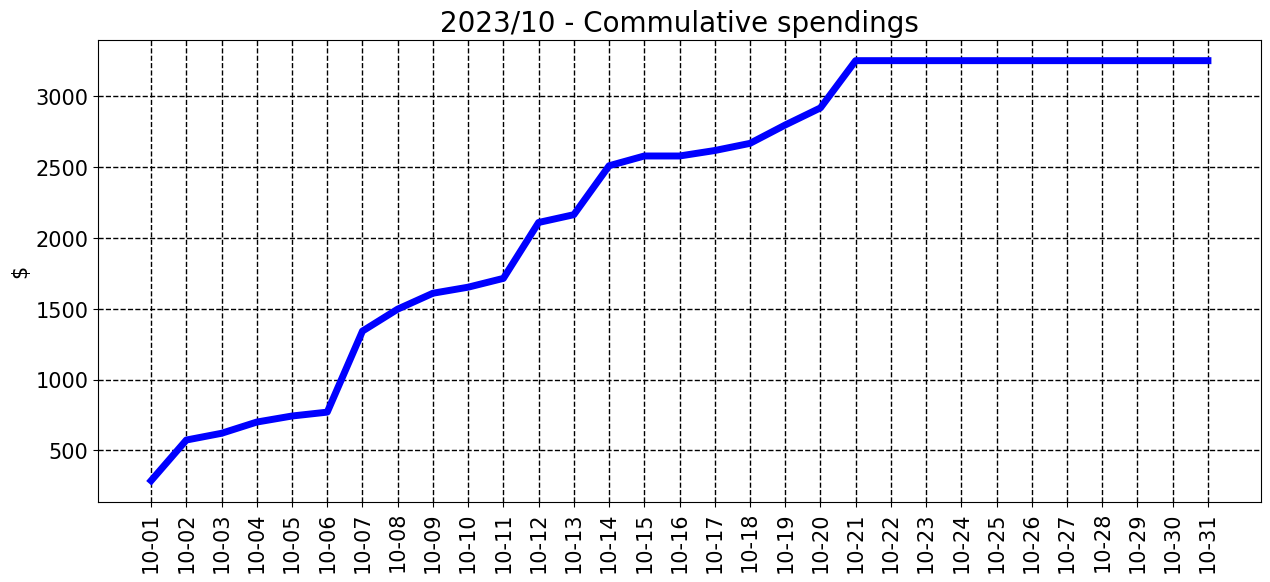
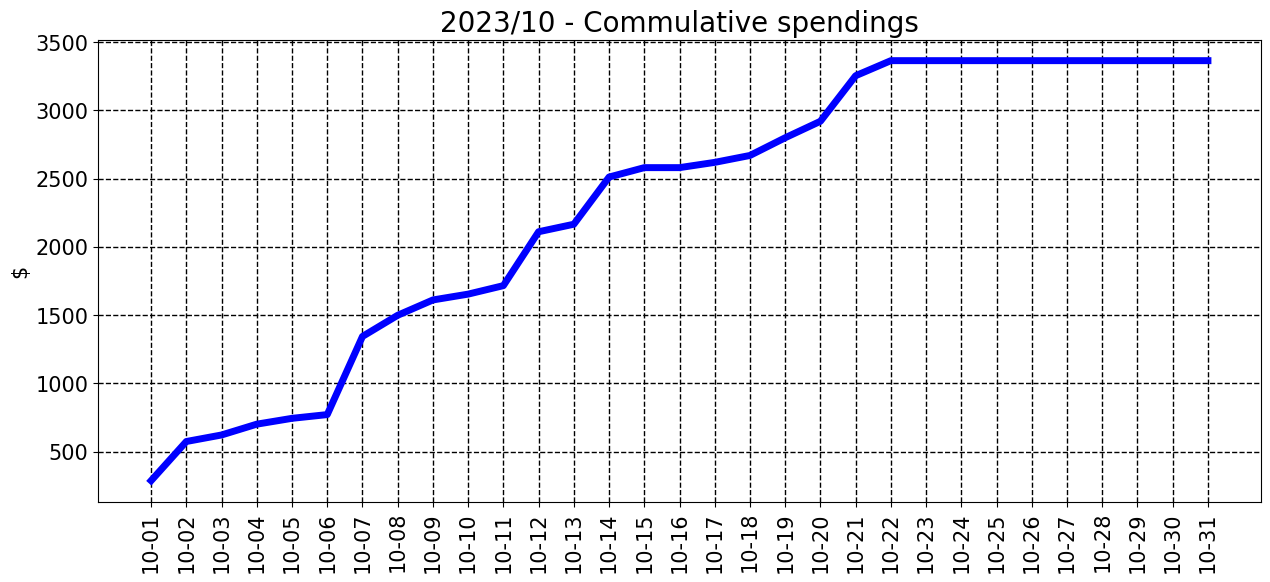
commit from python

diff --git a/README.md b/README.md
@@ -7,7 +7,7 @@ __________________________________
 <sub><sup>
 | Spent | Avg daily | End of month projection | Spent since 2023/7 |
 |---|---|---|---|
-| $3253.0  |  $147.9  | $4585.0  |  $18612.0  |
+| $3363.0  |  $152.9  | $4740.0  |  $18722.0  |
 </sub></sup>
 __________________________________
 ![graph_10_sum](graph_10_sum.png)
